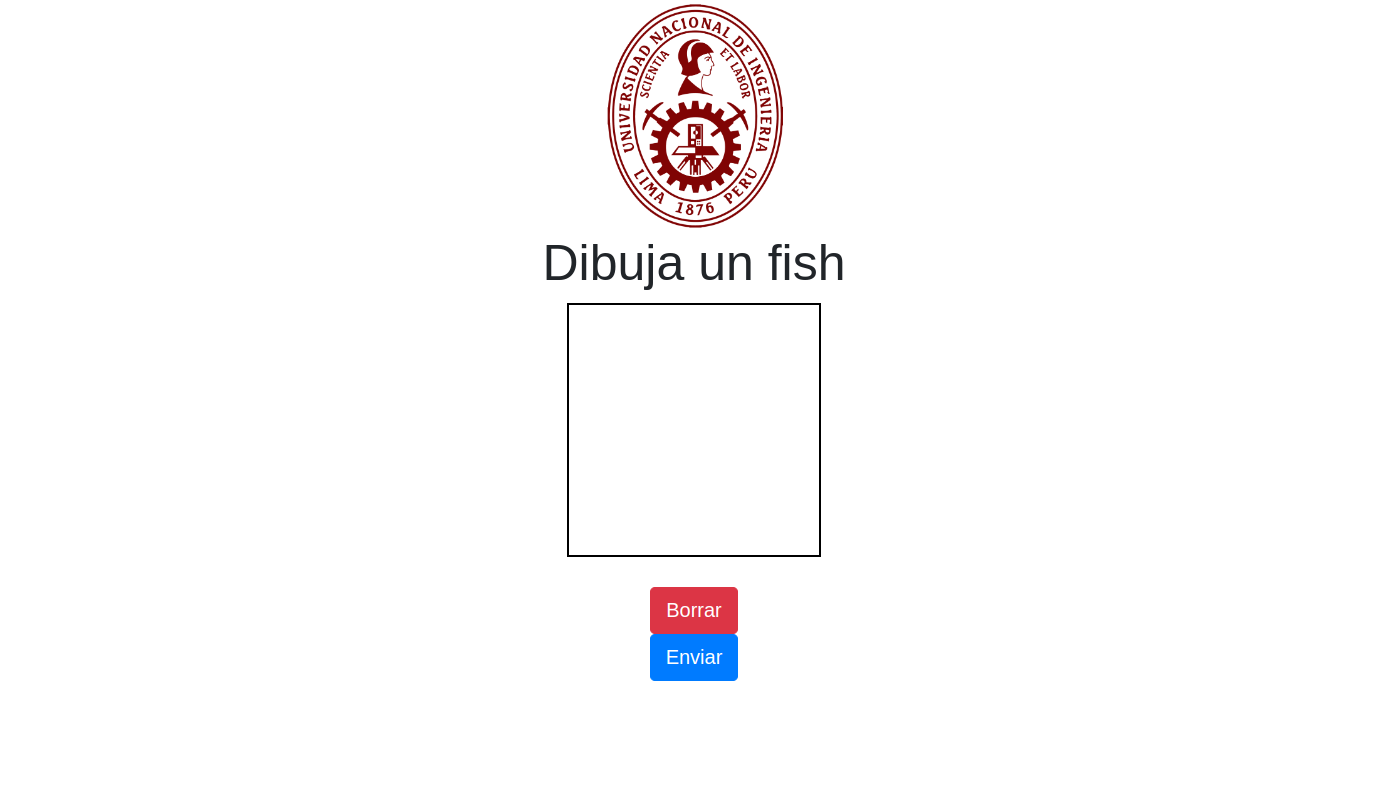
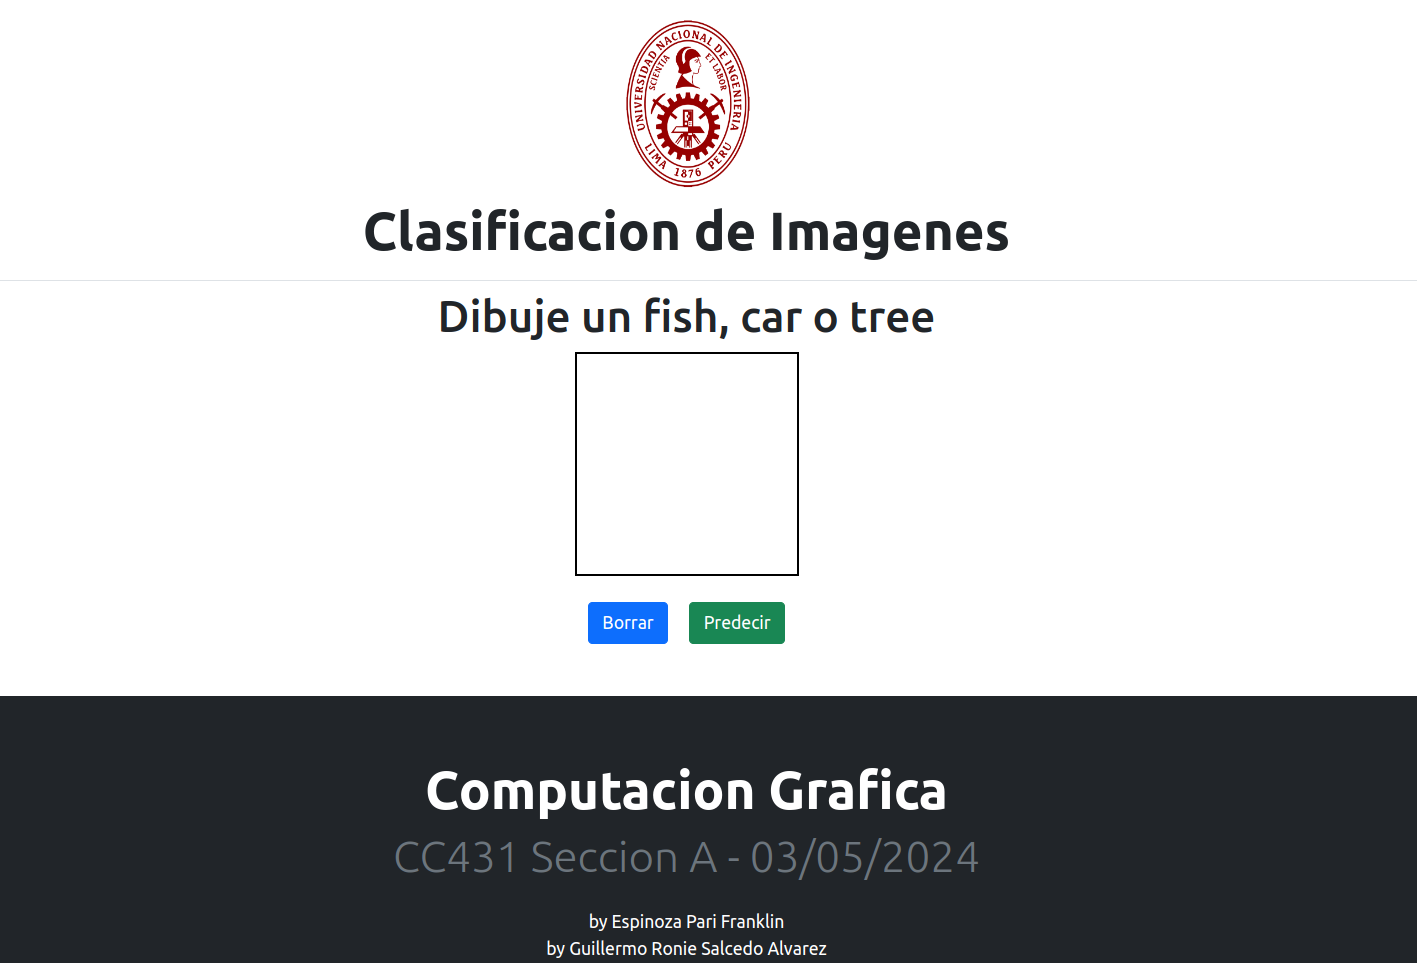
Final

diff --git a/app.py b/app.py
@@ -14,54 +14,63 @@ app = Flask(__name__)
 main_html = """
 <html>
 <head>
-  <title>Drawing App</title>
-  <!-- Add Bootstrap CSS -->
-  <link rel="stylesheet" href="https://maxcdn.bootstrapcdn.com/bootstrap/4.0.0/css/bootstrap.min.css">
+    <meta charset="utf-8">
+    <meta name="viewport" content="width=device-width, initial-scale=1">
+    <link rel="icon" type="image/png" sizes="32x32" href="favicon-32x32.png">
+    <link rel="icon" type="image/png" sizes="16x16" href="favicon-16x16.png">
+    <title>Clasificacion</title>
+
+    <link href="https://cdn.jsdelivr.net/npm/bootstrap@5.0.2/dist/css/bootstrap.min.css" rel="stylesheet" integrity="sha384-EVSTQN3/azprG1Anm3QDgpJLIm9Nao0Yz1ztcQTwFspd3yD65VohhpuuCOmLASjC" crossorigin="anonymous">
+
+    <style>
+      #resultado {
+        font-weight:  bold;
+        font-size:  6rem;
+        text-align: center;
+      }
+
+      .canvas-container {
+          margin: 0 auto;
+          border: 1px solid #ccc;
+      }
+    </style>
+
 </head>
+<script>
+  var mousePressed = false;
+  var lastX, lastY;
+  var ctx;
 
-<body onload="InitThis();">
-  <!-- Add jQuery and Bootstrap JS -->
-  <script src="https://ajax.googleapis.com/ajax/libs/jquery/1.7.1/jquery.min.js"></script>
-  <script src="https://maxcdn.bootstrapcdn.com/bootstrap/4.0.0/js/bootstrap.min.js"></script>
-    <script>
-      var mousePressed = false;
-      var lastX, lastY;
-      var ctx;
+   function getRndInteger(min, max) {
+    return Math.floor(Math.random() * (max - min) ) + min;
+   }
 
-       function getRndInteger(min, max) {
-        return Math.floor(Math.random() * (max - min) ) + min;
-       }
+  function InitThis() {
+      ctx = document.getElementById('myCanvas').getContext("2d");
+      document.getElementById('mensaje').innerHTML  = 'Dibuje un fish, car o tree';
 
-      function InitThis() {
-          ctx = document.getElementById('myCanvas').getContext("2d");
-          var randnumber = getRndInteger(0, 3);
-          var objetos = ["fish", "car", "tree"];
-          var aleatorio = objetos[randnumber];
-          document.getElementById('mensaje').innerHTML  = 'Dibuja un ' + aleatorio;
-          document.getElementById('objeto').value = aleatorio;
-
-          $('#myCanvas').mousedown(function (e) {
+      $('#myCanvas').mousedown(function (e) {
           mousePressed = true;
           Draw(e.pageX - $(this).offset().left, e.pageY - $(this).offset().top, false);
-          });
+      });
 
-          $('#myCanvas').mousemove(function (e) {
+      $('#myCanvas').mousemove(function (e) {
           if (mousePressed) {
               Draw(e.pageX - $(this).offset().left, e.pageY - $(this).offset().top, true);
           }
-          });
+      });
 
-          $('#myCanvas').mouseup(function (e) {
+      $('#myCanvas').mouseup(function (e) {
           mousePressed = false;
-          });
-          
-          $('#myCanvas').mouseleave(function (e) {
+      });
+      
+  	  $('#myCanvas').mouseleave(function (e) {
           mousePressed = false;
-          });
-      }
+      });
+  }
 
-      function Draw(x, y, isDown) {
-          if (isDown) {
+  function Draw(x, y, isDown) {
+      if (isDown) {
           ctx.beginPath();
           ctx.strokeStyle = 'black';
           ctx.lineWidth = 11;
@@ -70,52 +79,74 @@ main_html = """
           ctx.lineTo(x, y);
           ctx.closePath();
           ctx.stroke();
-          }
-          lastX = x; lastY = y;
       }
+      lastX = x; lastY = y;
+  }
 
-      function clearArea() {
-          // Use the identity matrix while clearing the canvas
-          ctx.setTransform(1, 0, 0, 1, 0, 0);
-          ctx.clearRect(0, 0, ctx.canvas.width, ctx.canvas.height);
-      }
+  function clearArea() {
+      // Use the identity matrix while clearing the canvas
+      ctx.setTransform(1, 0, 0, 1, 0, 0);
+      ctx.clearRect(0, 0, ctx.canvas.width, ctx.canvas.height);
+  }
 
-      //https://www.askingbox.com/tutorial/send-html5-canvas-as-image-to-server
-      function prepareImg() {
-         var canvas = document.getElementById('myCanvas');
-         document.getElementById('myImage').value = canvas.toDataURL();
-      }
+  //https://www.askingbox.com/tutorial/send-html5-canvas-as-image-to-server
+  function prepareImg() {
+     var canvas = document.getElementById('myCanvas');
+     document.getElementById('myImage').value = canvas.toDataURL();
+  }
 
-    </script>
+</script>
 
-  <div class="container">
-    <div class="row">
-      <div class="col-md-12 text-center d-flex justify-content-center">
-        <img src="https://upload.wikimedia.org/wikipedia/commons/f/f7/Uni-logo_transparente_granate.png" width="150" alt="University Logo">
+<body onload="InitThis();">
+	<header>
+	<div class="px-4 py-2 my-2 text-center border-bottom">
+		<img class="d-block mx-auto mb-2" src="https://upload.wikimedia.org/wikipedia/commons/thumb/f/f7/Uni-logo_transparente_granate.png/477px-Uni-logo_transparente_granate.png" alt="logo-uni" width="120" height="160">
+		<h1 class="display-5 fw-bold">Clasificacion de Imagenes</h1>
+		<div class="col-lg-6 mx-auto">
+		</div>
       </div>
-    </div>
+      </header>
+      <main>
+    <script src="https://ajax.googleapis.com/ajax/libs/jquery/3.6.0/jquery.min.js"></script>
 
-    <div class="row">
-      <div class="col-md-12 text-center">
-        <h1 id="mensaje">Dibujando...</h1>
-        <canvas id="myCanvas" width="200" height="200" style="border:2px solid black"></canvas>
-        <br><br>
-        <button class="btn btn-danger" onclick="javascript:clearArea();return false;">Borrar</button>
-      </div>
-    </div>
+    <script type="text/javascript" ></script>
 
-    <div class="row">
-      <div class="col-md-12 text-center">
-        <form method="post" action="upload" onsubmit="javascript:prepareImg();" enctype="multipart/form-data">
-          <input id="objeto" name="objeto" type="hidden" value="">
-          <input id="myImage" name="myImage" type="hidden" value="">
-          <button class="btn btn-primary" id="bt_upload" type="submit">Enviar</button>
-        </form>
+    <div class="text-center">
+    <h1 id="mensaje">Dibujando...</h1>
+    <canvas id="myCanvas" width="200" height="200" style="border:2px solid black"></canvas>
+    <br/><br/>
+    <button class="btn btn-primary mx-2" onclick="javascript:clearArea();return false;">Borrar</button>
+    <form class="d-inline" method="post" action="upload" onsubmit="javascript:prepareImg();" enctype="multipart/form-data">
+        <input id="objeto" name="objeto" type="hidden" value="">
+        <input id="myImage" name="myImage" type="hidden" value="">
+        <input class="btn btn-success mx-2" id="bt_upload" type="submit" value="Predecir">
+    </form>
+</div>
+
+	</main>
+
+    
+    <footer>
+    <div class="b-example-divider"></div>
+
+      <div class="bg-dark text-secondary mt-5 px-4 py-2 text-center">
+        <div class="py-5">
+          <h1 class="display-5 fw-bold text-white">Computacion Grafica</h1>
+          <div class="col-lg-6 mx-auto">
+            <p class="display-6 mb-4">CC431 Seccion A - 03/05/2024</p>
+            <ul class="list-unstyled text-white">
+                <li>by Espinoza Pari Franklin</li>
+                <li>by Guillermo Ronie Salcedo Alvarez</li>
+            </ul>
+          </div>
+        </div>
       </div>
-    </div>
-  </div>
+
+      <div class="b-example-divider mb-0"></div>
+     </footer>
 </body>
 </html>
+
 
 """
 
@@ -153,7 +184,7 @@ def upload():
         resultado = objetos[np.argmax(prediction)]
         print("Predicción:", resultado)
         
-        return main_html.replace('</body>', f'<div align="center"><p>Predicción: {resultado}</p></div></body>')
+        return main_html.replace('</main>', f'<div style="text-align: center; padding: 20px; font-size: 30px; font-weight: bold; background-color: #f0f0f0; border: 1px solid #ccc; margin-top: 20px;"><p>Predicción: {resultado}</p></div></main>')
         
 
     except Exception as err:

diff --git a/recollect.py b/recollect.py
@@ -13,7 +13,29 @@ app = Flask(__name__)
 
 main_html = """
 <html>
-<head></head>
+<head>
+    <meta charset="utf-8">
+    <meta name="viewport" content="width=device-width, initial-scale=1">
+    <link rel="icon" type="image/png" sizes="32x32" href="favicon-32x32.png">
+    <link rel="icon" type="image/png" sizes="16x16" href="favicon-16x16.png">
+    <title>Recoleccion</title>
+
+    <link href="https://cdn.jsdelivr.net/npm/bootstrap@5.0.2/dist/css/bootstrap.min.css" rel="stylesheet" integrity="sha384-EVSTQN3/azprG1Anm3QDgpJLIm9Nao0Yz1ztcQTwFspd3yD65VohhpuuCOmLASjC" crossorigin="anonymous">
+
+    <style>
+      #resultado {
+        font-weight:  bold;
+        font-size:  6rem;
+        text-align: center;
+      }
+
+      .canvas-container {
+          margin: 0 auto;
+          border: 1px solid #ccc;
+      }
+    </style>
+
+</head>
 <script>
   var mousePressed = false;
   var lastX, lastY;
@@ -28,7 +50,7 @@ main_html = """
       var randnumber = getRndInteger(0, 3);
       var objetos = ["fish", "car", "tree"];
       var aleatorio = objetos[randnumber];
-      document.getElementById('mensaje').innerHTML  = 'Dibuja un ' + aleatorio;
+      document.getElementById('mensaje').innerHTML  = 'Dibuje un ' + aleatorio;
       document.getElementById('objeto').value = aleatorio;
 
       $('#myCanvas').mousedown(function (e) {
@@ -78,28 +100,56 @@ main_html = """
   }
 
 </script>
+
 <body onload="InitThis();">
+	<header>
+	<div class="px-4 py-2 my-2 text-center border-bottom">
+		<img class="d-block mx-auto mb-2" src="https://upload.wikimedia.org/wikipedia/commons/thumb/f/f7/Uni-logo_transparente_granate.png/477px-Uni-logo_transparente_granate.png" alt="logo-uni" width="120" height="160">
+		<h1 class="display-5 fw-bold">Recoleccion de Imagenes</h1>
+		<div class="col-lg-6 mx-auto">
+		</div>
+      </div>
+      </header>
+      <main>
     <script src="https://ajax.googleapis.com/ajax/libs/jquery/1.7.1/jquery.min.js" type="text/javascript"></script>
     <script type="text/javascript" ></script>
-    <div align="left">
-      <img src="https://upload.wikimedia.org/wikipedia/commons/f/f7/Uni-logo_transparente_granate.png" width="150"/>
-    </div>
-    <div align="center">
-        <h1 id="mensaje">Dibujando...</h1>
-        <canvas id="myCanvas" width="200" height="200" style="border:2px solid black"></canvas>
-        <br/>
-        <br/>
-        <button onclick="javascript:clearArea();return false;">Borrar</button>
-    </div>
-    <div align="center">
-      <form method="post" action="upload" onsubmit="javascript:prepareImg();"  enctype="multipart/form-data">
-      <input id="objeto" name="objeto" type="hidden" value="">
-      <input id="myImage" name="myImage" type="hidden" value="">
-      <input id="bt_upload" type="submit" value="Enviar">
-      </form>
-    </div>
+
+    <div class="text-center">
+    <h1 id="mensaje">Dibujando...</h1>
+    <canvas id="myCanvas" width="200" height="200" style="border:2px solid black"></canvas>
+    <br/><br/>
+    <button class="btn btn-primary mx-2" onclick="javascript:clearArea();return false;">Borrar</button>
+    <form class="d-inline" method="post" action="upload" onsubmit="javascript:prepareImg();" enctype="multipart/form-data">
+        <input id="objeto" name="objeto" type="hidden" value="">
+        <input id="myImage" name="myImage" type="hidden" value="">
+        <input class="btn btn-success mx-2" id="bt_upload" type="submit" value="Enviar">
+    </form>
+</div>
+
+	</main>
+
+    
+    <footer>
+    <div class="b-example-divider"></div>
+
+      <div class="bg-dark text-secondary mt-5 px-4 py-2 text-center">
+        <div class="py-5">
+          <h1 class="display-5 fw-bold text-white">Computacion Grafica</h1>
+          <div class="col-lg-6 mx-auto">
+            <p class="display-6 mb-4">CC431 Seccion A - 03/05/2024</p>
+            <ul class="list-unstyled text-white">
+                <li>by Espinoza Pari Franklin</li>
+                <li>by Guillermo Ronie Salcedo Alvarez</li>
+            </ul>
+          </div>
+        </div>
+      </div>
+
+      <div class="b-example-divider mb-0"></div>
+     </footer>
 </body>
 </html>
+
 
 """
 

diff --git a/README.md b/README.md
@@ -10,4 +10,9 @@ Para la realización de nuestro trabajo, nuestro modelo consta de la predicción
 
 Tendremos dos páginas, en la primera, `recollect.py`, tendremos un espacio en el que dibujar una imagen según el enunciado, y en la segunda, `app.py`, será nuestro espacion en el cual dibujaremos la imagen que se indique, y este predecirá la imagen correspondiente. Para ambos casos, ejecutaremos cada uno por medio del comando `python3 [name.py]`.
 
+Página para la recolección de imágenes (`recollect.py`):
+![alt text](img/image2.png)
+
+Página para la predicción de imágenes (`app.py`):
 ![alt text](img/image.png)
+![alt text](img/image3.png)
